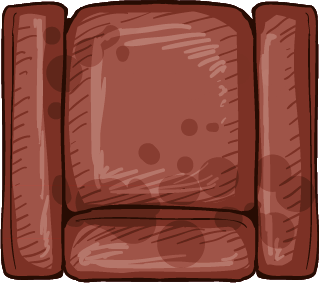
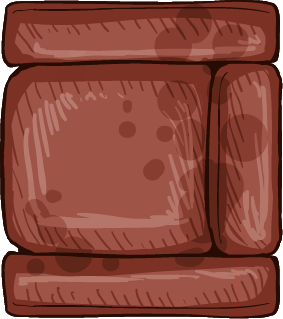
more furniture

diff --git a/public/app.js b/public/app.js
@@ -68,6 +68,7 @@ let table;
 let bed;
 let single_bed;
 let Sofa_chair;
+let Sofa_chair_2;
 let sofa;
 let tv;
 let sofa_side;
@@ -141,6 +142,7 @@ function preload() {
   table = loadImage("imgs/objects_house_0039_Layer-40.png");
   bed = loadImage("imgs/objects_house_0035_Layer-36.png");
   Sofa_chair = loadImage("imgs/objects_house_0013_Layer-14-1.png");
+  Sofa_chair_2 = loadImage("imgs/2objects_house_0013_Layer-14-1.png");
   sofa = loadImage("imgs/objects_house_0004_Layer-5.png");
   // single_bed = loadImage("imgs/objects_house_0004_Layer-5.png");
   // tv = loadImage("imgs/objects_house_0004_Layer-5.png");
@@ -209,17 +211,17 @@ function setup() {
   // room 2
   plant_obj_room2 = new furniture("plant in living room",plant,800,70);
   table_obj_room2 = new furniture("table in living room",table,650,330);
-  Sofa_chair_obj_room2 = new furniture("Sofa chair 1 in living room",Sofa_chair,570,150);
+  Sofa_chair_obj_room2 = new furniture("Sofa chair 1 in living room",Sofa_chair,570,200);
   Sofa_chair_obj2_room2 = new furniture("Sofa chair 2 in living room",Sofa_chair,700,150);
   sofa_obj_room2 = new furniture("sofa in living room",sofa,630,60);
+  rug_room2 = new furniture("rug in guest room",rug,630,140);
 
   // room 3
   bed_obj_room3 = new furniture("bed in guest room",single_bed,600,450);
   bed_obj_2_room3 = new furniture("bed in guest room",single_bed,500,450);
   tv_room3 = new furniture("Tv in guest room",tv,830,450)
   sofa_room3 = new furniture("sofa in guest room",sofa_side,750,450)
-  
-  sofa_room3 = new furniture("sofa in guest room",sofa_side,750,450)
+
 
 
   // room 3
@@ -594,6 +596,7 @@ image(wall_7,i, height-wall_6.height/2);
   bed_obj_2_room3.draw();
   tv_room3.draw();
   sofa_room3.draw();
+  rug_room2.draw();
 
   // P_2.x_pos=seeker_x;
   // P_2.y_pos=seeker_y;
@@ -703,6 +706,7 @@ rect(width-300,height/2-1, 100,12);
  bed_obj_2_room3.draw();
  tv_room3.draw();
  sofa_room3.draw();
+ rug_room2.draw();
 
   if (role == "hider")
   {
@@ -773,6 +777,7 @@ image(wall_7,i, height-wall_6.height/2);
  bed_obj_2_room3.draw();
  tv_room3.draw();
  sofa_room3.draw();
+ rug_room2.draw();
 
   P_2.draw();
   
@@ -887,7 +892,7 @@ class Player{
   
   check_in_Bound(){
     
-    if (sofa_obj_room2.checkBound(this.x_pos,this.y_pos,this.width, this.height) || plant_obj_room2.checkBound(this.x_pos,this.y_pos,this.width, this.height) ||side_tableObj_1_room1.checkBound(this.x_pos,this.y_pos,this.width, this.height) ||side_tableObj_2_room1.checkBound(this.x_pos,this.y_pos,this.width, this.height) || plant_obj_room1.checkBound(this.x_pos,this.y_pos,this.width, this.height) || table_obj_room2.checkBound(this.x_pos,this.y_pos,this.width, this.height) || bed_obj_room1.checkBound(this.x_pos,this.y_pos,this.width, this.height) || Sofa_chair_obj2_room2.checkBound(this.x_pos,this.y_pos,this.width, this.height) || Sofa_chair_obj_room2.checkBound(this.x_pos,this.y_pos,this.width, this.height) || bed_obj_2_room3.checkBound(this.x_pos,this.y_pos,this.width, this.height) ||  bed_obj_room3.checkBound(this.x_pos,this.y_pos,this.width, this.height) || sofa_room3.checkBound(this.x_pos,this.y_pos,this.width, this.height) ||  tv_room3.checkBound(this.x_pos,this.y_pos,this.width, this.height))
+    if (sofa_obj_room2.checkBound(this.x_pos,this.y_pos,this.width, this.height) || plant_obj_room2.checkBound(this.x_pos,this.y_pos,this.width, this.height) ||side_tableObj_1_room1.checkBound(this.x_pos,this.y_pos,this.width, this.height) ||side_tableObj_2_room1.checkBound(this.x_pos,this.y_pos,this.width, this.height) || plant_obj_room1.checkBound(this.x_pos,this.y_pos,this.width, this.height) || table_obj_room2.checkBound(this.x_pos,this.y_pos,this.width, this.height) || bed_obj_room1.checkBound(this.x_pos,this.y_pos,this.width, this.height) || Sofa_chair_obj2_room2.checkBound(this.x_pos,this.y_pos,this.width, this.height) || Sofa_chair_obj_room2.checkBound(this.x_pos,this.y_pos,this.width, this.height) || bed_obj_2_room3.checkBound(this.x_pos,this.y_pos,this.width, this.height) ||  bed_obj_room3.checkBound(this.x_pos,this.y_pos,this.width, this.height) || sofa_room3.checkBound(this.x_pos,this.y_pos,this.width, this.height) ||  tv_room3.checkBound(this.x_pos,this.y_pos,this.width, this.height) || rug_room2.checkBound(this.x_pos,this.y_pos,this.width, this.height) )
     {
       return true;
     }
@@ -912,6 +917,8 @@ class Player{
   bed_obj_2_room3.checkBound(this.x_pos,this.y_pos,this.width, this.height);
   tv_room3.checkBound(this.x_pos,this.y_pos,this.width, this.height);
   sofa_room3.checkBound(this.x_pos,this.y_pos,this.width, this.height);
+  rug_room2.checkBound(this.x_pos,this.y_pos,this.width, this.height)
+
   this.move();
   // rect(this.x_pos,this.y_pos,this.width,this.height);
   
